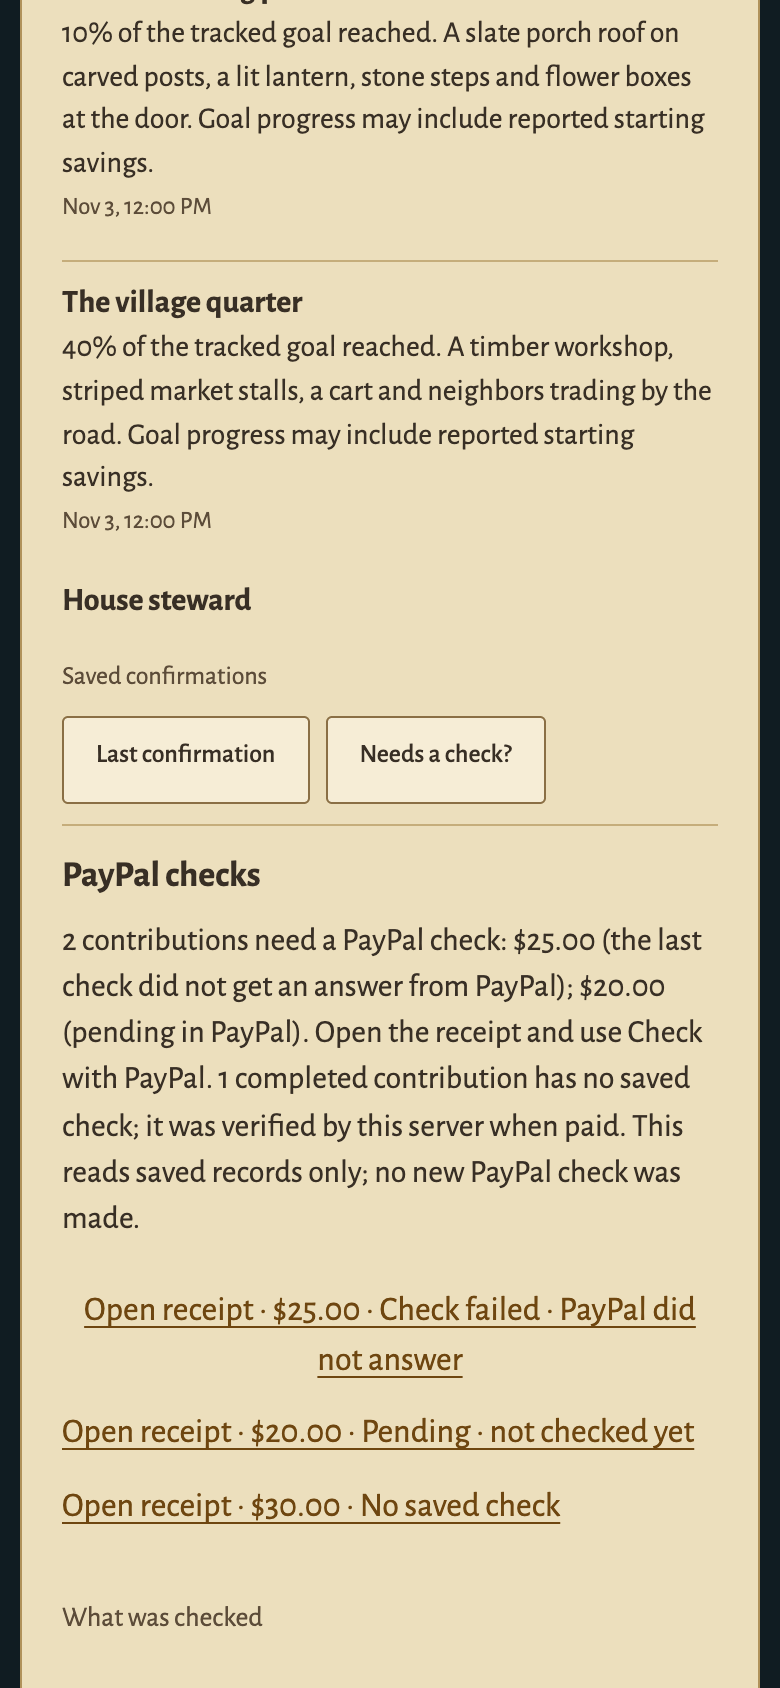
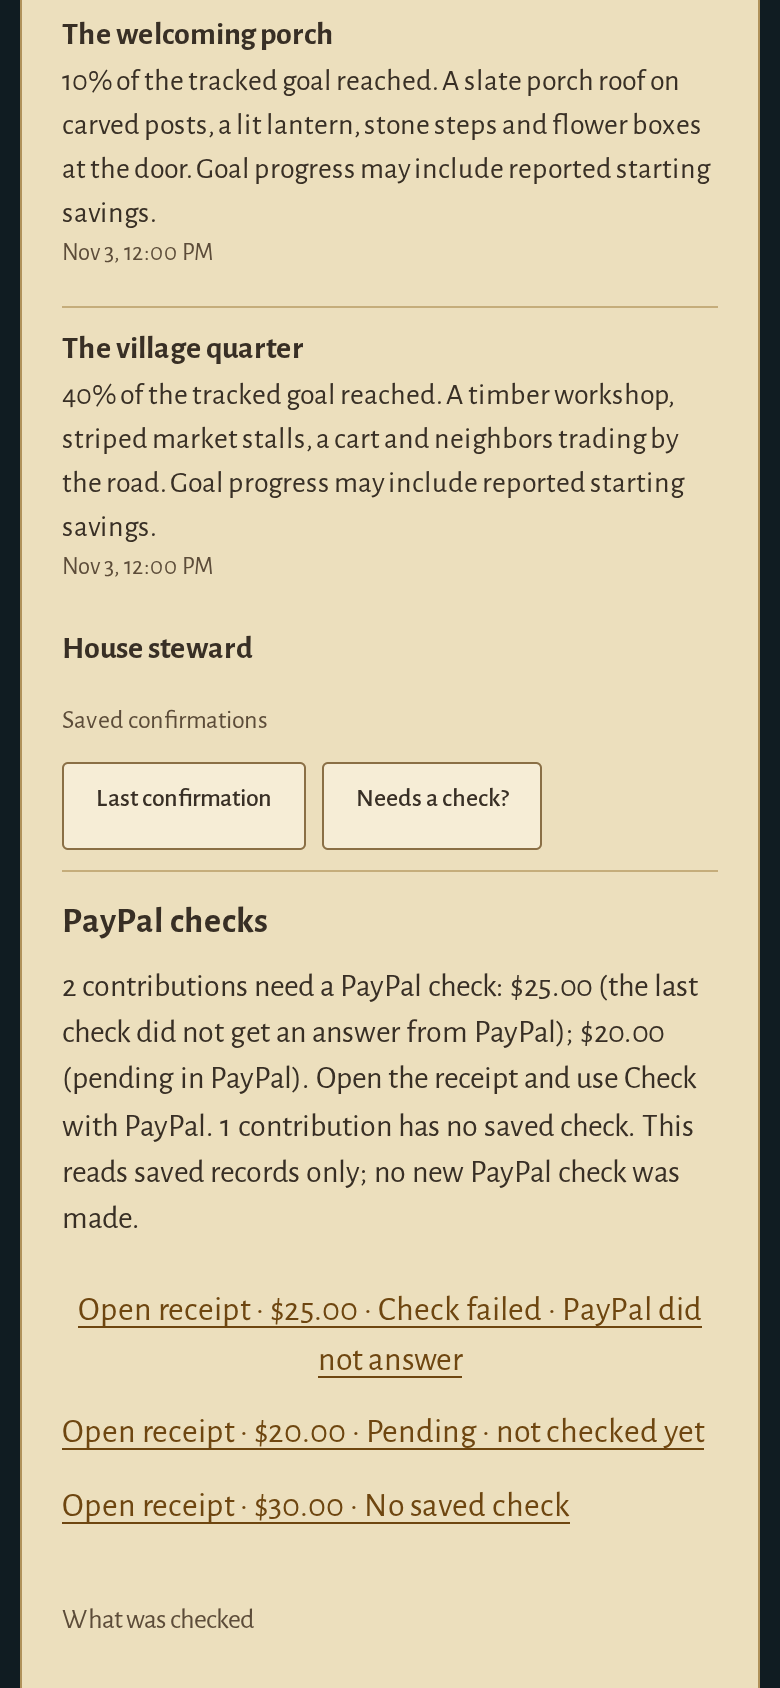
Verify Treasury integration and align journey and clock fixtures

diff --git a/docs/VALIDATION.md b/docs/VALIDATION.md
@@ -1,10 +1,20 @@
 # Validation
 
+## Treasury PR #7 integration review — November 6 UTC, 2026
+
+Merged current main into Rachel's branch, preserving Merchant draft recovery; the only conflict was two independent validation entries. Review reproduced an incorrect refund label: a saved refund ID could mark a pending or failed refund as completed, and a partial refund could look full. Status now uses the actual recorded refund state and distinguishes it from historical checks; unchecked refunded records retain their refund label. A failed saved check on an unpaid order also keeps the existing explicit recovery button available. No payment service, schema, SDK, dependency, reward or renderer changed.
+
+The initial desktop/phone run reproduced a keyboard-focus race in the new **Open receipt** links: AG Grid's asynchronous selection notification rebuilt an already-selected receipt after focus moved there. Ignoring that redundant selection preserves focus without a timer, extra fetch or model call. Both unrelated failures reported by Rachel were also reproduced on unmodified current main: the history test moved its local-noon clock backward with a fixed UTC timestamp, and the journey test expected a retired celebration banner. Tests now advance the fixture's actual clock and verify the real Manor deed, its close/focus return, receipt, world progress and reload.
+
+**Verification:** 51 distinct focused unit cases passed across the review runs; the six confirmation-history cases passed in UTC and America/Los_Angeles. **16 desktop/390 px touch-phone Chromium cases passed** across targeted runs: full family journey, keyless local history, refund recovery, failed-check history, unpaid-order recheck without capture, receipt-link focus and reload, and the existing Studio/grid/map flow. The initial two receipt-link focus failures and the failing refund regression are retained; the affected desktop/phone cases passed after the fix. Actual desktop/phone renders were inspected and refreshed below. The original 47-file/palette/renderer guard, final changed-file syntax and diff checks passed. No full suite, new real sandbox order, paid AI/search, owner-data change or recording was used.
+
+Ignored review evidence: `test-results/pr7-review/{refund-before.log,refund-after.log,refunded-answer.log,unit.log,timezone-before.log,timezone-after.log,journey-before.log,browser.log,browser-artifacts/,focus.log,focus-artifacts/,source-check.log}`; browser captures in `test-results/treasury-status/` and the four `docs/screenshots/treasury-status-*.png` files. Baseline failures were run against unmodified main `9225d6e`; all providers in these checks are fake transports.
+
 ## Treasury saved-check status and "Needs a check?" — November 5 PST / November 6 UTC, 2026
 
 Every PayPal record now carries one compact saved-check status (`src/core/check-status.js`), shown on the grid's source line and as a pill on the selected receipt with the check's time and the server's note. A pending match reads "still pending", never completed; a newer failed check outranks an older success; a captured payment with no separate check reads "No saved check". The existing **Check with PayPal** sits on the status line of a receipt that needs a check and runs only when pressed. The steward's second local question, **Needs a check?**, is answered from this household's active-goal records through the existing `/api/steward` request with no model or PayPal call, and offers "Open receipt" links that only select the record. No endpoint, dependency, money-moving path or renderer changed.
 
-**Unit (fake sandbox, in-memory databases): 49 cases across check-status, needs-check, confirmation-history, steward, prompt-injection, server, treasury and receipt-checks; 48 pass in this Mac's PST session and 49 with `TZ=UTC`.** The one PST failure is the pre-existing `confirmation-history` case "newest-order selection…", which compares `created_at` values written with a UTC clock override against the fixture's local-noon clock; it is unrelated to this change and passes in UTC. New cases cover every status wording, the newer-failed-over-older-success rule, a match saved before a later refund, pending/failed/unchecked receipts named newest first, no provider call or write with or without an AI key, the simulated-only goal, and a second household's pending order being excluded.
+**Rachel’s initial checks (before integration review). Unit (fake sandbox, in-memory databases): 49 cases across check-status, needs-check, confirmation-history, steward, prompt-injection, server, treasury and receipt-checks; 48 pass in this Mac's PST session and 49 with `TZ=UTC`.** The one PST failure is the pre-existing `confirmation-history` case "newest-order selection…", which compares `created_at` values written with a UTC clock override against the fixture's local-noon clock; it is unrelated to this change and passes in UTC. New cases cover every status wording, the newer-failed-over-older-success rule, a match saved before a later refund, pending/failed/unchecked receipts named newest first, no provider call or write with or without an AI key, the simulated-only goal, and a second household's pending order being excluded.
 
 **Browser (Chromium desktop 1440×1000 and 390 px touch phone, real app over the fake sandbox, no AI key): 8 cases passed** in `treasury-status`, `payment-recheck` and `confirmation-history`. The new case checks the four grid statuses, the failed/unchecked/pending receipts and their single check button, the local answer's wording and three receipt links, opening a receipt by link, reload persistence with zero PayPal order reads, and that only the button produces a `/refresh` write, after which the record reads as matched with the failure kept in its history; no horizontal overflow on either viewport. Captures: `docs/screenshots/treasury-status-{desktop,phone}-{needs-check,receipt-failed}.png`. The pre-existing `journey` "full journey" case fails identically on unmodified `main` on this machine (the celebration banner is suppressed while the deed card is open) and was not changed. The 47-file source/palette/renderer/syntax guard passed. No full suite, real payment, live AI or recording was run.
 

diff --git a/docs/TREASURY.md b/docs/TREASURY.md
@@ -12,8 +12,8 @@ Bridges and districts open in the world itself, with the existing deed card. The
 - **Next area.** For example: "Next area · Manor Gardens · 25% milestone · $60.00 of $75.00 · $15.00 to go". Districts that open together are named together, for example "Stone Keep & Starfall Observatory". When every milestone area is open, it says so. "View on map" moves the camera to that district and focuses its map control. It writes nothing.
 - **Every record.** This is the existing AG Grid Community grid: each record's amount, date and source (reported, simulated or PayPal sandbox) and whether it counts. Search and the All/Goal progress/Bills/Gifts filters only change what is listed. The pinned total and the next area always come from the server's canonical progress.
 - **Selected record.** Tapping a row shows its short receipt: amount, status, source tag and, for a payment, order, capture and refund ids. It keeps the existing actions: complete a pending simulated payment, check a sandbox receipt, refund with adult confirmation. "Visit …" appears when that record crossed an area that is open now. "Check with PayPal" also leaves one quiet saved-check line on the record. The server saves it from the actual PayPal order read and its own reconciliation, never from a model answer or the browser, so it survives a reload; up to ten checks are kept, with earlier ones inside the closed "Payment details" control. A provider failure is saved as unavailable and appears immediately through a local state read, without a second PayPal lookup. Nothing is checked on load.
-- **Saved-check status.** Every PayPal record carries one compact status, derived in `src/core/check-status.js` from the record and its newest saved check only: "checked, matches", "checked, pending" (a pending match is never a completed payment), "checked, refunded", "check failed" (PayPal did not answer, or did not match), "needs a check", or "no saved check" for a captured payment that was verified when paid but never separately checked. The grid shows it on the record's source line; the selected receipt shows the same status as a pill with the check's time and the server's note. A newer failed check always outranks an older success. On a receipt that needs a check, the existing "Check with PayPal" button sits on that status line; otherwise it stays with the other actions. It runs only when pressed: opening records, searching, reloading and the local questions never trigger it.
-- **Needs a check?** The steward's second local question, "Any contributions that need a PayPal check?", is answered from this household's active-goal records through the existing `/api/steward` request with no model or PayPal call, with or without an AI key. It names the pending, failed and uncounted contributions, mentions completed ones with no saved check, says that no new check was made, and offers "Open receipt" links that only select the record. It never claims fresh verification.
+- **Saved-check status.** Every PayPal record carries one compact status, derived in `src/core/check-status.js` from the record and its newest saved check only: "checked, matches", "checked, pending" (a pending match is never a completed payment), "checked, refunded", "check failed" (PayPal did not answer, or did not match), "needs a check", or "no saved check" for a captured payment that was verified when paid but never separately checked. The grid shows it on the record's source line; the selected receipt shows the same status as a pill with the check's time and the server's note. A newer failed check always outranks an older success. A refund ID alone never means a refund completed: pending refunds remain pending, partial refunds stay distinct, and later refunds are not presented as part of an older check. When only refund references were saved, the label separates the current refund record from the saved check. On a receipt that needs a check, the existing "Check with PayPal" button sits on that status line; otherwise it stays with the other actions. It runs only when pressed: opening records, searching, reloading and the local questions never trigger it.
+- **Needs a check?** The steward's second local question, "Any contributions that need a PayPal check?", is answered from this household's active-goal records through the existing `/api/steward` request with no model or PayPal call, with or without an AI key. It names the pending, failed and uncounted contributions, mentions records with no saved check, says that no new check was made, and offers "Open receipt" links that only select the record. It never claims fresh verification.
 - **House steward.** The existing read-only steward sits at the end of the Ledger in a closed disclosure. **Last confirmation** answers from saved order checks through the existing `/api/steward` request, with no model or PayPal call; it works without an AI key. Completed-capture identity, amount and currency must match the credited receipt before a saved time is described as a confirmation. Pending matches, refunds, later failed checks and absent history are distinguished, and no date is backfilled. Its **Saved confirmation** answer never becomes fresh payment verification. A receipt's existing **Ask the steward to verify** still performs the separate explicit provider-backed path. AG Studio's framework manages both through the same runner; no new endpoint, tool or panel is added.
 
 ## How it works
